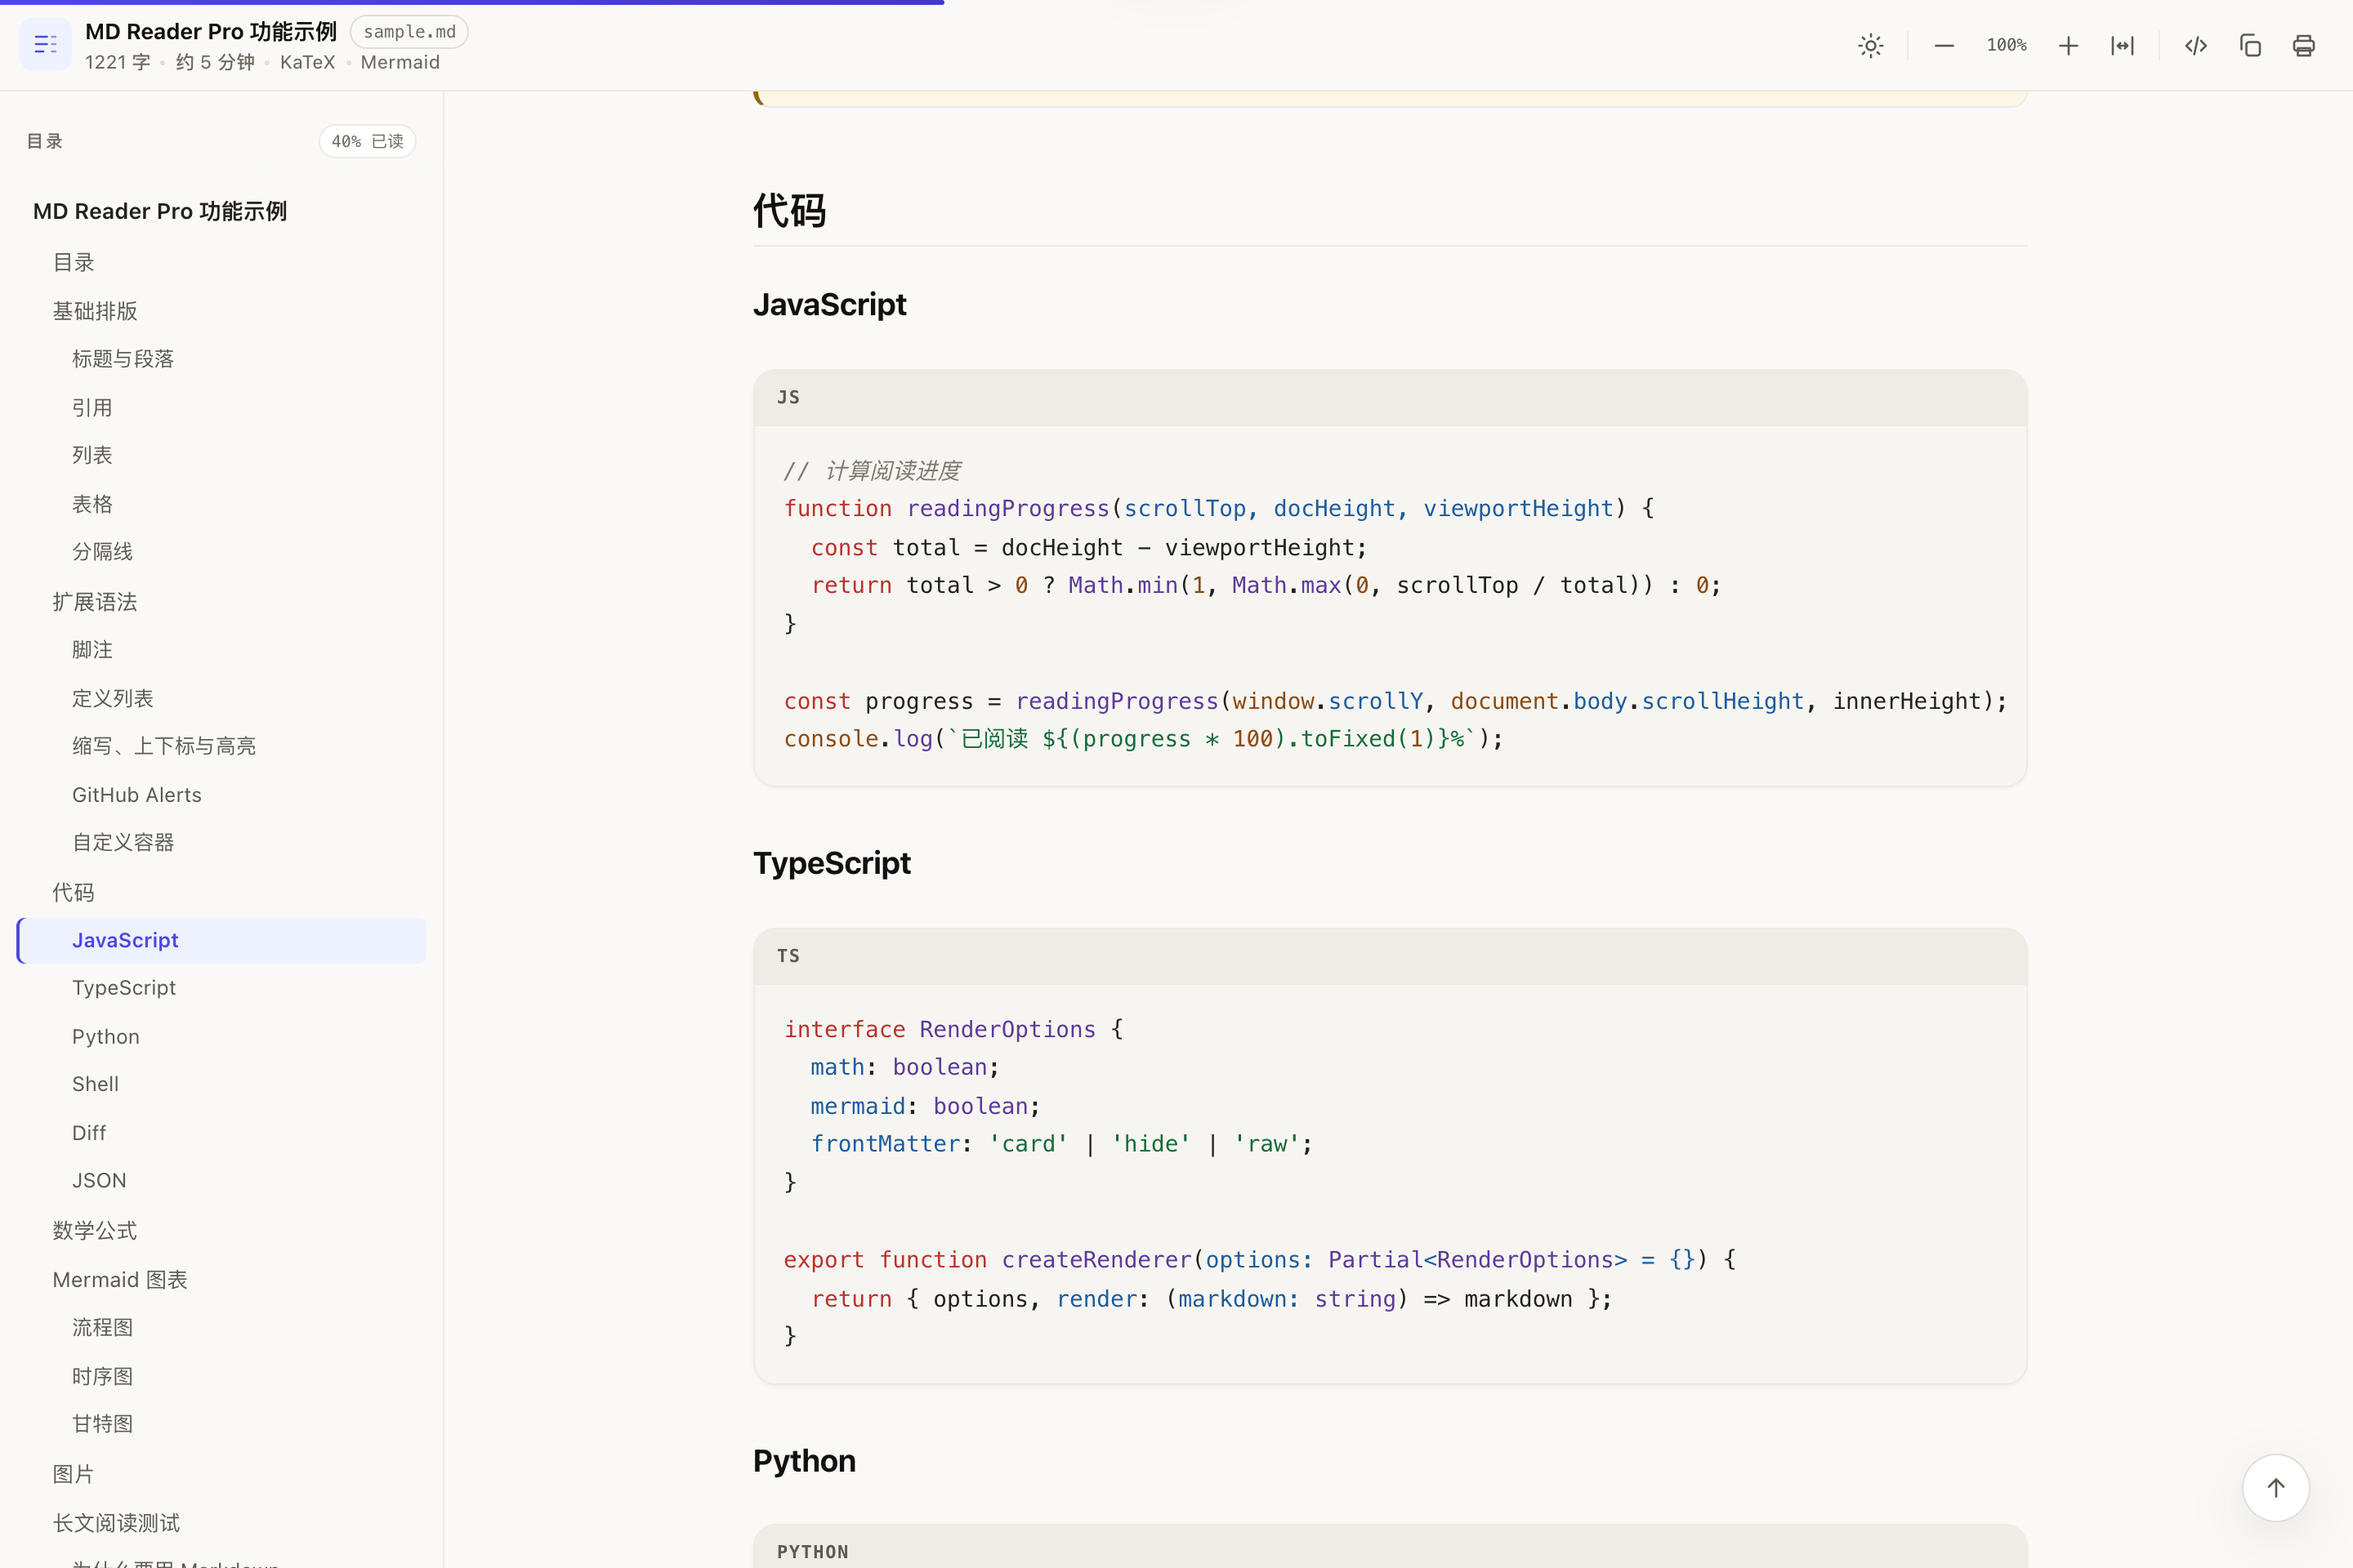
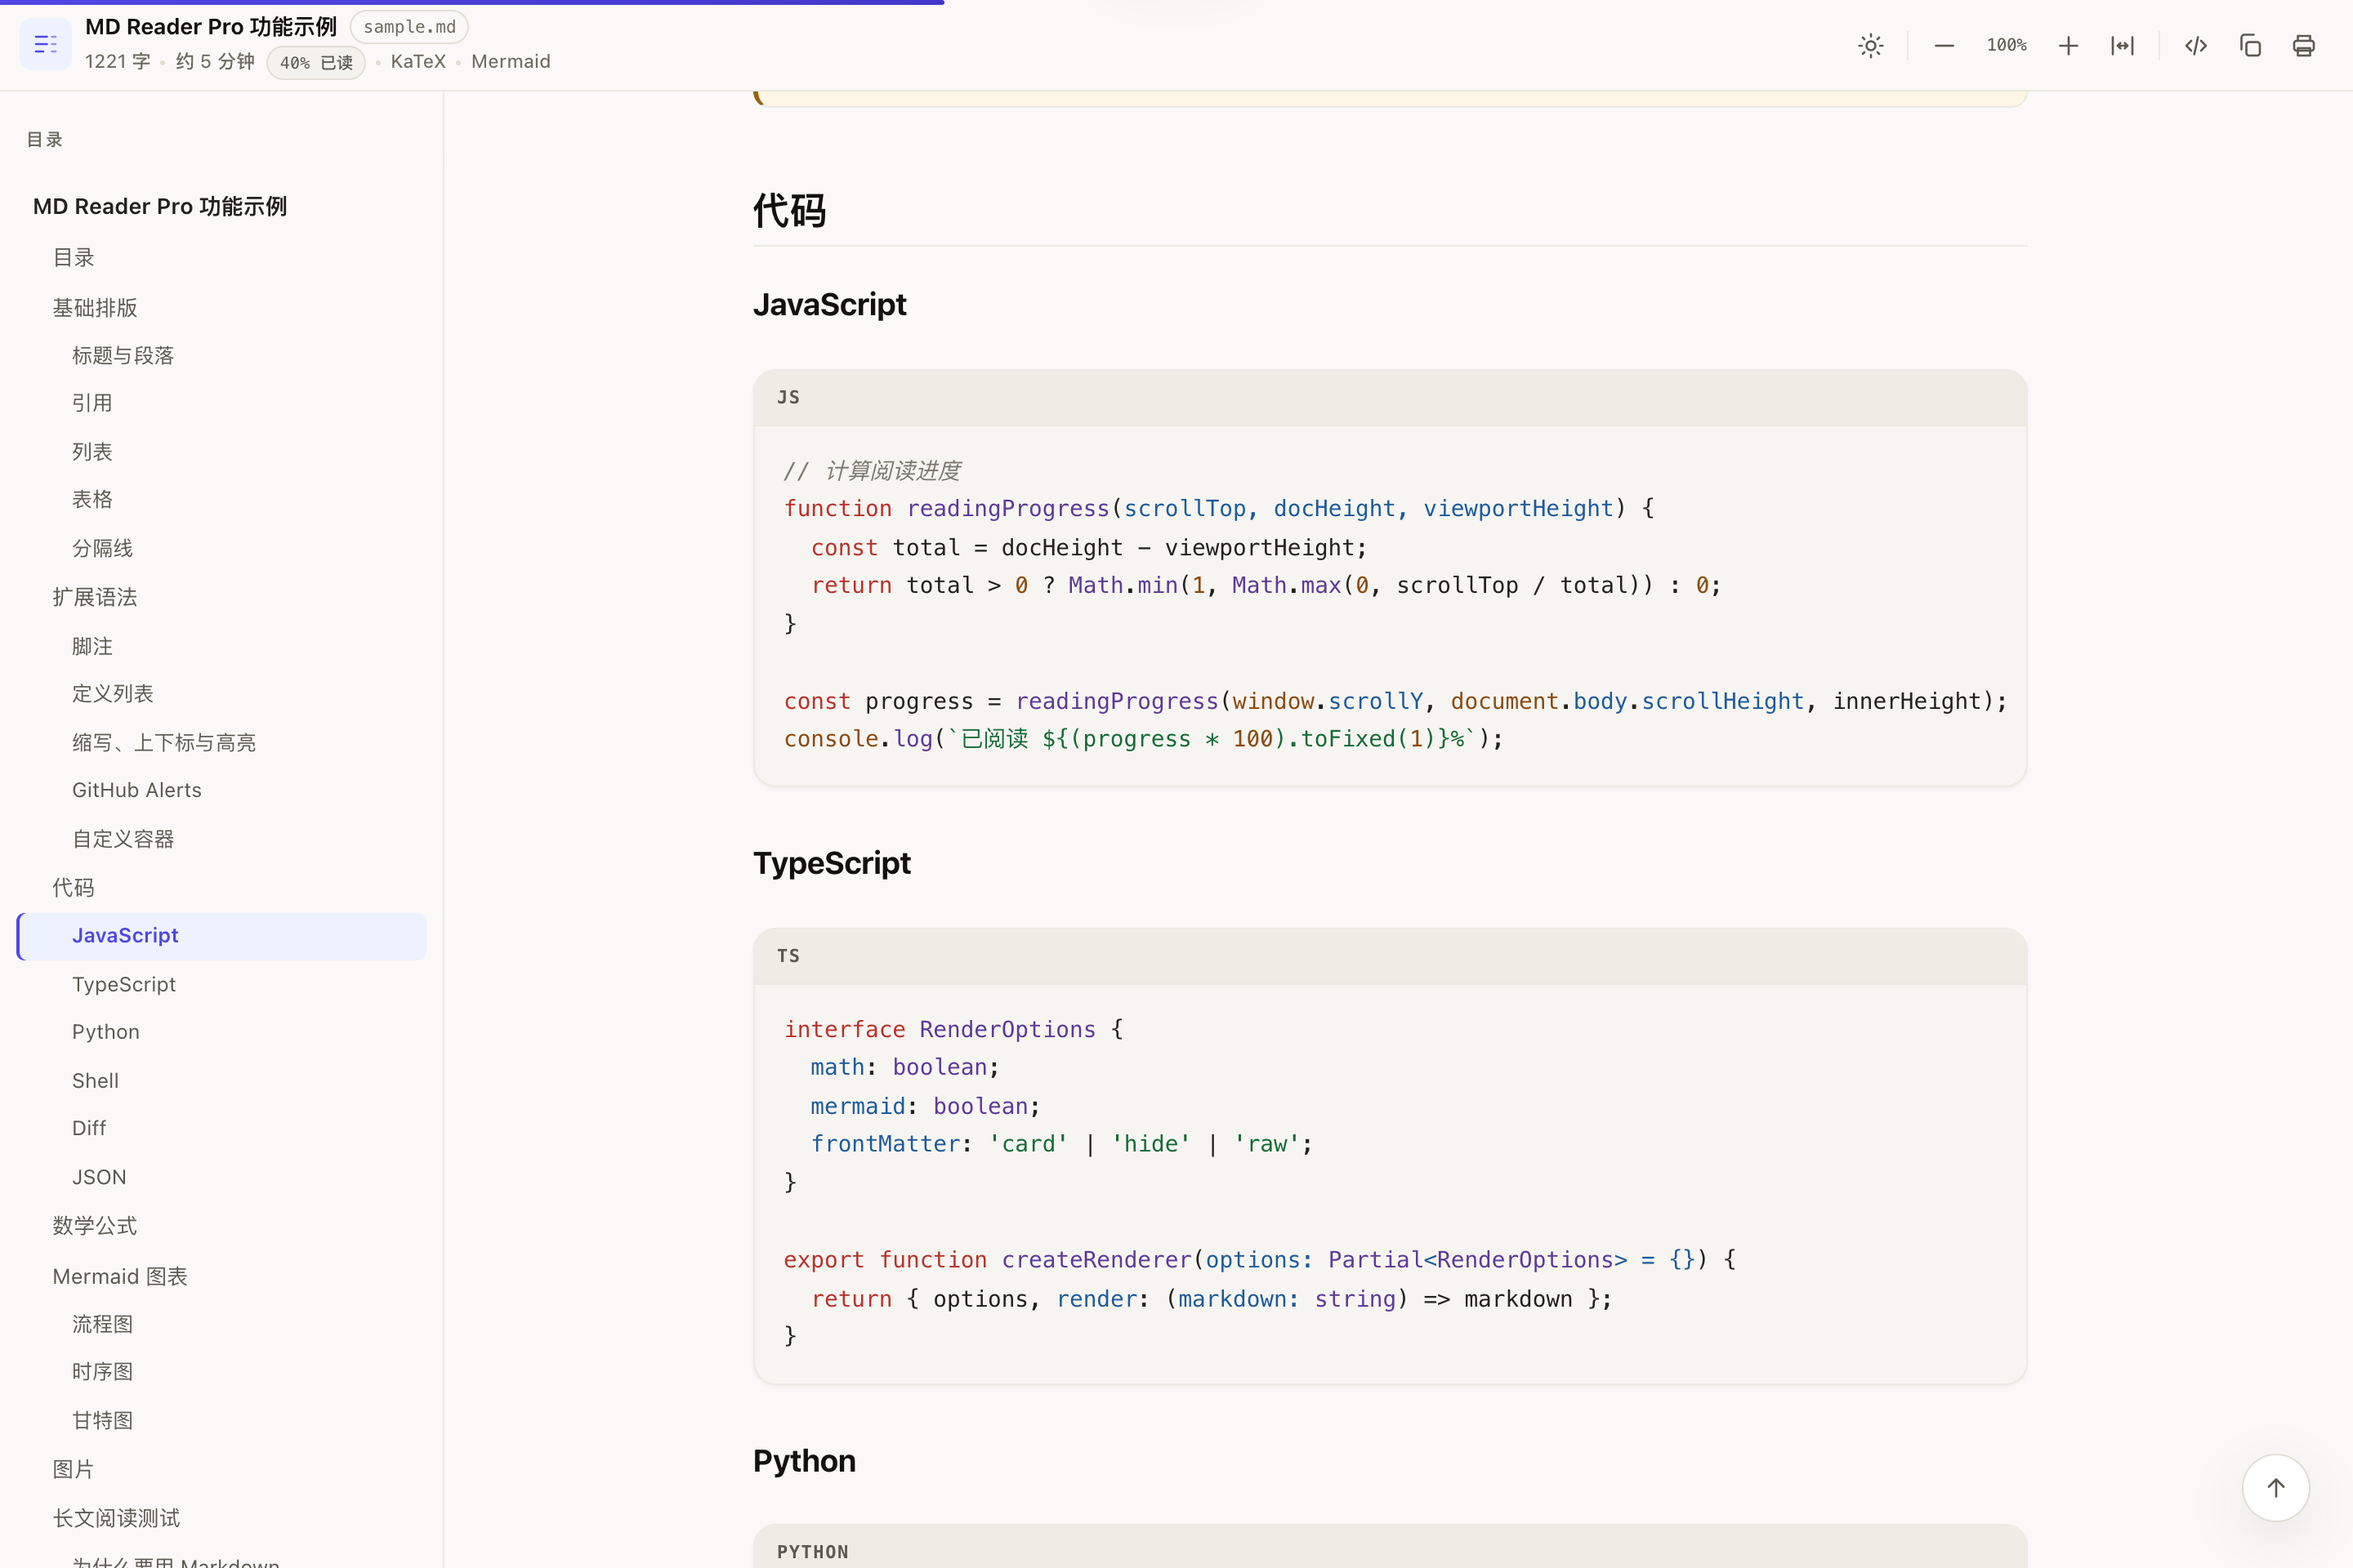
feat: move reading progress to toolbar and cap TOC at 35% (v1.0.2)

diff --git a/src/ui/reader-app.js b/src/ui/reader-app.js
@@ -99,6 +99,13 @@ export async function mountReaderApp({
   const fileChip = h('span', { class: 'md-doc-file', hidden: true });
   const docTitle = h('div', { class: 'md-doc-title' }, titleText, fileChip);
   const docMeta = h('div', { class: 'md-doc-meta' });
+  const docProgress = h('span', {
+    class: 'md-doc-progress',
+    text: '0%',
+    hidden: true,
+    title: t('readingProgress'),
+    'aria-label': t('readingProgress'),
+  });
   const headingWrap = h('div', { class: 'md-heading-wrap' }, docTitle, docMeta);
 
   const themeButton = makeIconButton('theme', icons.sun, t('toggleTheme'));
@@ -147,12 +154,6 @@ export async function mountReaderApp({
   );
 
   const tocNav = h('nav', { class: 'md-toc', 'aria-label': t('toc') });
-  const sidebarPercent = h('span', {
-    class: 'md-sidebar-progress',
-    text: '0%',
-    hidden: true,
-    title: t('readingProgress'),
-  });
   const sidebarInner = h(
     'div',
     { class: 'md-sidebar-inner' },
@@ -160,7 +161,6 @@ export async function mountReaderApp({
       'div',
       { class: 'md-sidebar-head' },
       h('span', { class: 'md-sidebar-title', text: t('toc') }),
-      sidebarPercent,
     ),
     tocNav,
   );
@@ -309,7 +309,7 @@ export async function mountReaderApp({
   const TOC_MIN_WIDTH = 200;
 
   function maxTocWidth() {
-    return Math.max(TOC_MIN_WIDTH, Math.floor(window.innerWidth * 0.5));
+    return Math.max(TOC_MIN_WIDTH, Math.floor(window.innerWidth * 0.35));
   }
 
   function clampTocWidth(value) {
@@ -450,7 +450,6 @@ export async function mountReaderApp({
     tocLinks.length = 0;
     if (!headings.length) {
       tocNav.append(h('div', { class: 'md-toc-empty', text: t('noHeadings') }));
-      sidebarPercent.textContent = '0%';
       return;
     }
     const minLevel = Math.min(...headings.map((heading) => heading.level));
@@ -584,10 +583,10 @@ export async function mountReaderApp({
     const ratio = max > 0 ? Math.min(1, Math.max(0, main.scrollTop / max)) : 0;
     progressSpan.style.width = `${(ratio * 100).toFixed(2)}%`;
     const percent = Math.round(ratio * 100);
-    sidebarPercent.hidden = ratio < 0.005;
-    sidebarPercent.textContent = t('percentRead', { percent });
-    sidebarPercent.title = t('readingProgress');
-    sidebarPercent.setAttribute('aria-label', t('percentRead', { percent }));
+    docProgress.hidden = ratio < 0.005;
+    docProgress.textContent = t('percentRead', { percent });
+    docProgress.title = t('readingProgress');
+    docProgress.setAttribute('aria-label', t('percentRead', { percent }));
     topButton.classList.toggle('is-visible', main.scrollTop > 520);
     updateProgressVisibility();
 
@@ -625,16 +624,21 @@ export async function mountReaderApp({
       fileChip.hidden = true;
     }
 
-    const parts = [];
-    if (meta.wordCount) parts.push(t('wordCount', { count: meta.wordCount }));
-    if (meta.readingMinutes) parts.push(t('readingTime', { minutes: meta.readingMinutes }));
-    if (meta.hasMath) parts.push('KaTeX');
-    if (meta.hasMermaid) parts.push('Mermaid');
-    docMeta.textContent = '';
-    parts.forEach((part, index) => {
-      if (index > 0) docMeta.append(h('span', { class: 'md-dot', 'aria-hidden': 'true' }));
-      docMeta.append(h('span', { text: part }));
-    });
+    const metaNodes = [];
+    const addMeta = (node) => {
+      if (metaNodes.length) {
+        metaNodes.push(h('span', { class: 'md-dot', 'aria-hidden': 'true' }));
+      }
+      metaNodes.push(node);
+    };
+    if (meta.wordCount) addMeta(h('span', { text: t('wordCount', { count: meta.wordCount }) }));
+    if (meta.readingMinutes) {
+      addMeta(h('span', { text: t('readingTime', { minutes: meta.readingMinutes }) }));
+      metaNodes.push(docProgress);
+    }
+    if (meta.hasMath) addMeta(h('span', { text: 'KaTeX' }));
+    if (meta.hasMermaid) addMeta(h('span', { text: 'Mermaid' }));
+    docMeta.replaceChildren(...metaNodes);
 
     rawCount.textContent = t('rawLines', { count: countLines(state.markdown) });
 
@@ -710,7 +714,6 @@ export async function mountReaderApp({
       renderer.enhance(article, { theme }).catch(() => {});
     }
 
-    if (!tocLinks.length) sidebarPercent.textContent = '0%';
   }
 
   /* ------------------------------------------------------------- decorate */
@@ -1131,7 +1134,6 @@ export async function mountReaderApp({
   function onResizeStart(event) {
     if (isMobile() || event.button !== 0) return;
     event.preventDefault();
-    sidebarResizer.focus({ preventScroll: true });
     const now = Date.now();
     if (event.detail >= 2 || now - lastResizeDown < 350) {
       lastResizeDown = 0;

diff --git a/src/ui/strings.js b/src/ui/strings.js
@@ -166,7 +166,7 @@ export const strings = {
     sectionReading: '阅读',
     sectionReadingDesc: '目录、进度条与代码展示',
     showToc: '目录侧栏',
-    showTocDesc: '根据小标题生成，滚动时高亮；拖动目录右边缘可调宽度（最大 50% 屏幕）',
+    showTocDesc: '根据小标题生成，滚动时高亮；拖动目录右边缘可调宽度（最大 35% 屏幕）',
     readingProgressDesc: '在页面顶部显示阅读位置',
     codeLineNumbers: '代码行号',
     codeLineNumbersDesc: '为代码块添加行号',
@@ -404,7 +404,7 @@ export const strings = {
     sectionReading: 'Reading',
     sectionReadingDesc: 'Contents, progress and code presentation',
     showToc: 'Contents sidebar',
-    showTocDesc: 'Built from headings; drag the right edge to resize (max 50% of the screen)',
+    showTocDesc: 'Built from headings; drag the right edge to resize (max 35% of the screen)',
     readingProgressDesc: 'Show reading position at the top of the page',
     codeLineNumbers: 'Code line numbers',
     codeLineNumbersDesc: 'Add a gutter with line numbers to code blocks',

diff --git a/src/ui/styles/reader-chrome.css b/src/ui/styles/reader-chrome.css
@@ -117,6 +117,24 @@
   vertical-align: middle;
 }
 
+.md-doc-progress {
+  display: inline-flex;
+  align-items: center;
+  margin-left: 7px;
+  padding: 1px 7px;
+  border: 1px solid var(--md-border);
+  border-radius: var(--md-radius-pill);
+  background: var(--md-surface-muted);
+  color: var(--md-muted);
+  font-family: var(--md-font-mono);
+  font-size: 10px;
+  font-weight: 500;
+  font-variant-numeric: tabular-nums;
+  line-height: 1.7;
+  vertical-align: middle;
+  white-space: nowrap;
+}
+
 .md-toolbar-actions {
   display: flex;
   align-items: center;
@@ -228,13 +246,17 @@
 .md-sidebar-resizer:hover::after,
 .md-sidebar-resizer:focus-visible::after,
 .md-sidebar-resizer.is-dragging::after {
-  background: var(--md-accent);
-  opacity: 0.55;
+  background: var(--md-border);
+  opacity: 0.9;
 }
 
 .md-sidebar-resizer:focus-visible {
-  outline: 2px solid var(--md-accent);
-  outline-offset: -2px;
+  outline: 1px solid var(--md-border);
+  outline-offset: -1px;
+}
+
+.md-sidebar-resizer {
+  -webkit-tap-highlight-color: transparent;
 }
 
 .md-app[data-md-resizing="1"] {

diff --git a/README.md b/README.md
@@ -12,7 +12,7 @@
 
 MD Reader Pro 是一个完全离线的 Chrome 扩展：打开 `.md` 链接、本地 Markdown 文件或任意纯文本页面，即可获得带目录、代码高亮、数学公式、Mermaid 图表和多套主题的阅读界面。所有解析与渲染都在本地完成，文档内容不会离开你的浏览器。
 
-**版本：** v1.0.1 ｜ **兼容：** Chrome 110+ / Edge 110+（Chromium 内核，不支持 Firefox）
+**版本：** v1.0.2 ｜ **兼容：** Chrome 110+ / Edge 110+（Chromium 内核，不支持 Firefox）
 
 ## 截图
 
@@ -37,7 +37,7 @@ MD Reader Pro 是一个完全离线的 Chrome 扩展：打开 `.md` 链接、本
 - **自动识别 Markdown**：`text/markdown` 内容类型、以 `.md` / `.markdown` / `.mdown` / `.mkd` / `.mdx` 结尾的链接（大小写、query、hash 均可），以及 GitHub / GitLab / Gitee / Bitbucket 等 raw 地址。
 - **不会误伤网页**：即使 URL 以 `.md` 结尾，只要是 `text/html` 页面就绝不自动接管；PDF、`view-source:`、`chrome://` 等受保护页面会直接跳过。
 - **纯文本提示**：`text/plain` 页面被检测到 2 类以上 Markdown 特征时，右下角出现悬浮按钮，点击才进入阅读模式。
-- **专业阅读体验**：顶部工具栏与侧边目录固定，正文独立滚动；目录标题单行显示、超出省略，拖动目录右边缘可调宽度（最大 50% 屏幕）；右上角 − / + 之间显示字号百分比，点击即恢复 100%；自动目录与滚动高亮、阅读进度、代码复制、图片灯箱、回到顶部、打印 / 导出 PDF、源码切换、Markdown 复制。
+- **专业阅读体验**：顶部工具栏与侧边目录固定，正文独立滚动；目录标题单行显示、超出省略，拖动目录右边缘可调宽度（最大 35% 屏幕）；右上角 − / + 之间显示字号百分比，点击即恢复 100%；自动目录与滚动高亮、阅读进度、代码复制、图片灯箱、回到顶部、打印 / 导出 PDF、源码切换、Markdown 复制。
 - **四种主题**：浅色、深色、护眼、跟随系统；字号、行高、阅读宽度与衬线 / 无衬线字体均可调节。
 - **完整渲染能力**：CommonMark + GFM、脚注、定义列表、缩写、上下标、`==高亮==`、任务列表、GitHub Alerts、多行表格、YAML front matter、KaTeX 数学公式、Mermaid 图表与 highlight.js 代码高亮。
 - **清爽表格**：浅色实线网格、表头底色、对齐方式、行内代码/公式，宽表格横向滚动。
@@ -50,7 +50,7 @@ MD Reader Pro 是一个完全离线的 Chrome 扩展：打开 `.md` 链接、本
 
 ### 方式一：下载 Release（推荐）
 
-1. 打开 [Releases](https://github.com/Hanice404/md-reader-pro/releases/latest)，下载 `md-reader-pro-v1.0.1.zip`。
+1. 打开 [Releases](https://github.com/Hanice404/md-reader-pro/releases/latest)，下载 `md-reader-pro-v1.0.2.zip`。
 2. 解压到任意目录（压缩包根目录包含 `manifest.json`）。
 3. 打开 `chrome://extensions`（Edge 为 `edge://extensions`），开启右上角的 **开发者模式**。
 4. 点击 **加载已解压的扩展程序**，选择解压后的文件夹。
@@ -170,7 +170,7 @@ npm run build
 | `npm run build` | 构建到 `dist/`，并校验 manifest 引用的文件是否存在 |
 | `npm run dev` | 监听源码变化，增量构建（开发用，含 sourcemap） |
 | `npm test` | Puppeteer 端到端测试（见下方说明） |
-| `npm run zip` | 把 `dist/` 打包为 `release/md-reader-pro-v1.0.1.zip` |
+| `npm run zip` | 把 `dist/` 打包为 `release/md-reader-pro-v1.0.2.zip` |
 | `npm run icons` | 由 `scripts/icons.mjs` 重新生成图标（需要 Python + Pillow） |
 
 端到端测试使用 **Chrome for Testing**（品牌版 Chrome 会忽略 `--load-extension`，无法加载未打包扩展）。首次运行：
@@ -180,7 +180,7 @@ npx @puppeteer/browsers install chrome@stable --path .chrome
 npm test          # 自动使用 .chrome/ 下的 Chrome for Testing
 ```
 
-也可以用 `CHROME_PATH="/path/to/chrome" npm test` 指定其他 Chromium 构建。测试会启动真实浏览器、加载 `dist/` 扩展，覆盖自动渲染、检测矩阵、本地文件、XSS 清洗、Mermaid/KaTeX、主题、设置同步、移动端与打印样式等 96 项检查。
+也可以用 `CHROME_PATH="/path/to/chrome" npm test` 指定其他 Chromium 构建。测试会启动真实浏览器、加载 `dist/` 扩展，覆盖自动渲染、检测矩阵、本地文件、XSS 清洗、Mermaid/KaTeX、主题、设置同步、移动端与打印样式等 97 项检查。
 
 构建产物结构：
 

diff --git a/CHANGELOG.md b/CHANGELOG.md
@@ -2,6 +2,20 @@
 
 All notable changes to **MD Reader Pro** are documented here.
 
+## [1.0.2] — 2026-11-25
+
+### Changed
+
+- The “N% 已读” capsule moved from the sidebar header to the toolbar metadata, immediately to the right of the reading-time estimate.
+- The resizable TOC width now caps at **35%** of the viewport (was 50%).
+- The resize divider no longer shows an accent/click highlight while dragging; it uses a neutral hairline only.
+
+### Fixed
+
+- Sidebar header is now just the “目录 / Contents” label.
+
+[1.0.2]: https://github.com/Hanice404/md-reader-pro/releases/tag/v1.0.2
+
 ## [1.0.1] — 2026-11-25
 
 ### Added
